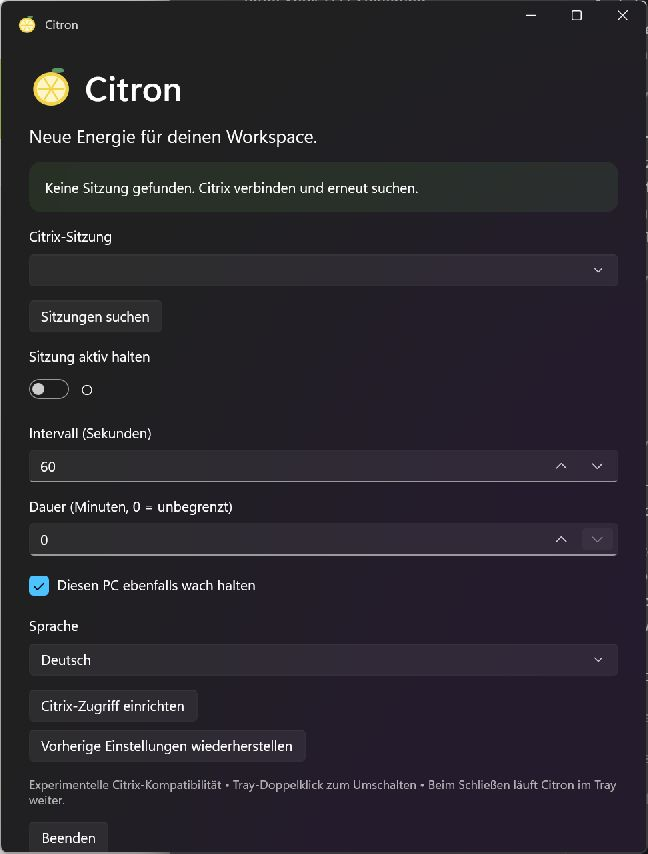
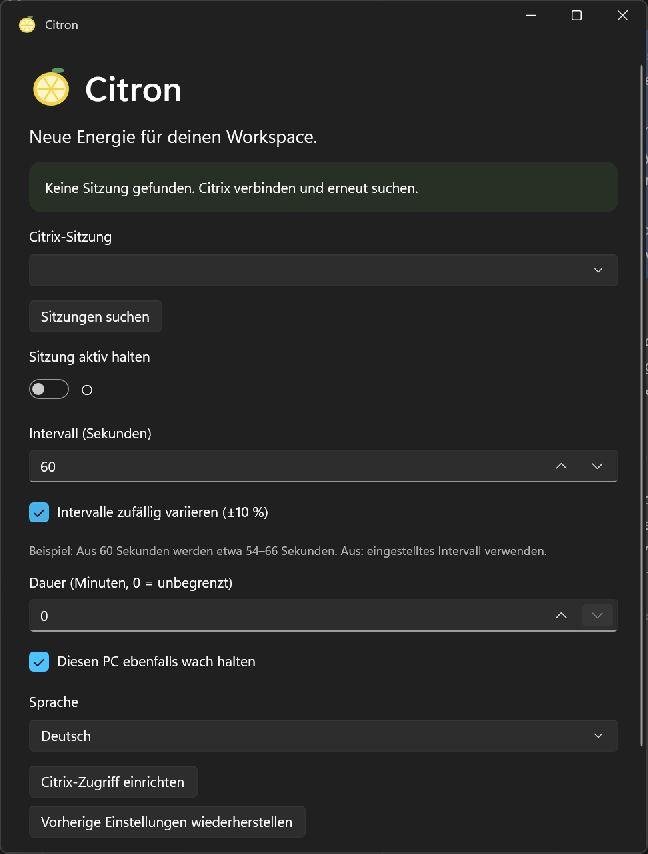
Add optional randomized intervals with persisted multilingual control

diff --git a/src/Citron.App/Program.cs b/src/Citron.App/Program.cs
@@ -29,14 +29,6 @@ internal static class Program
         Directory.CreateDirectory(path); File.AppendAllText(Path.Combine(path, "startup.log"), DateTime.Now + " " + message + Environment.NewLine); } catch { }
     }
 }
-internal sealed class Preferences
-{
-    public string Language { get; set; } = Strings.Language;
-    public int Interval { get; set; } = 60;
-    public int Duration { get; set; } = 0;
-    public bool KeepAwake { get; set; }
-    public bool SetupPrompted { get; set; }
-}
 public sealed partial class CitronApp : Application
 {
     public CitronApp() { UnhandledException += (_, e) => Program.Log(e.Exception.ToString()); InitializeComponent(); }
@@ -46,7 +38,7 @@ public sealed partial class CitronApp : Application
     ComboBox sessions = null!;
     ToggleSwitch enabled = null!;
     NumberBox interval = null!, duration = null!;
-    CheckBox awake = null!;
+    CheckBox awake = null!, randomizeInterval = null!;
     NativeTray tray = null!;
     DispatcherTimer timer = null!;
     Preferences prefs = new();
@@ -124,8 +116,14 @@ public sealed partial class CitronApp : Application
         root.Children.Add(enabled);
         interval = new NumberBox { Header = Strings.T("interval"), Minimum = 15, Maximum = 3600, Value = Math.Clamp(prefs.Interval, 15, 3600), SpinButtonPlacementMode = NumberBoxSpinButtonPlacementMode.Inline };
         duration = new NumberBox { Header = Strings.T("duration"), Minimum = 0, Maximum = 1440, Value = Math.Clamp(prefs.Duration, 0, 1440), SpinButtonPlacementMode = NumberBoxSpinButtonPlacementMode.Inline };
-        interval.ValueChanged += (_, _) => Save(); duration.ValueChanged += (_, _) => Save();
-        root.Children.Add(interval); root.Children.Add(duration);
+        interval.ValueChanged += (_, _) => { Save(); Reschedule(); }; duration.ValueChanged += (_, _) => Save();
+        root.Children.Add(interval);
+        randomizeInterval = new CheckBox { Content = Strings.T("randomize"), IsChecked = prefs.RandomizeInterval };
+        randomizeInterval.Checked += (_, _) => { Save(); Reschedule(); };
+        randomizeInterval.Unchecked += (_, _) => { Save(); Reschedule(); };
+        root.Children.Add(randomizeInterval);
+        root.Children.Add(new TextBlock { Text = Strings.T("randomizeHint"), TextWrapping = TextWrapping.Wrap, Opacity = .65, FontSize = 12 });
+        root.Children.Add(duration);
         awake = new CheckBox { Content = Strings.T("sleep"), IsChecked = prefs.KeepAwake };
         awake.Checked += (_, _) => Save(); awake.Unchecked += (_, _) => { Save(); SetThreadExecutionState(0x80000000); }; root.Children.Add(awake);
         var language = new ComboBox { Header = Strings.T("language"), HorizontalAlignment = HorizontalAlignment.Stretch };
@@ -165,7 +163,12 @@ public sealed partial class CitronApp : Application
         if (double.IsFinite(interval.Value)) prefs.Interval = (int)Math.Clamp(interval.Value, 15, 3600);
         if (double.IsFinite(duration.Value)) prefs.Duration = (int)Math.Clamp(duration.Value, 0, 1440);
         prefs.KeepAwake = awake?.IsChecked == true;
+        prefs.RandomizeInterval = randomizeInterval?.IsChecked == true;
         try { Directory.CreateDirectory(Path.GetDirectoryName(PrefPath)!); File.WriteAllText(PrefPath, JsonSerializer.Serialize(prefs, JsonContext.Default.Preferences)); } catch (Exception ex) { status.Text = ex.Message; }
+    }
+    void Reschedule()
+    {
+        if (running && !busy) next = DateTimeOffset.UtcNow.Add(ActivityTiming.NextDelay(prefs.Interval, prefs.RandomizeInterval));
     }
     string Worker => Path.Combine(AppContext.BaseDirectory, "workers", architecture, "Citron.Worker.exe");
     async Task<JsonElement> Run(string command, string? session = null)
@@ -240,9 +243,10 @@ public sealed partial class CitronApp : Application
         busy = true;
         try
         {
+            var pulseStarted = DateTimeOffset.UtcNow;
             await Run("pulse", target);
             if (running) status.Text = Strings.T("active") + "\n" + DateTime.Now.ToString("T");
-            next = DateTimeOffset.UtcNow.AddSeconds(prefs.Interval);
+            next = pulseStarted.Add(ActivityTiming.NextDelay(prefs.Interval, prefs.RandomizeInterval));
         }
         catch (Exception ex) { enabled.IsOn = false; status.Text = Strings.T("error") + "\n" + ex.Message; }
         finally { busy = false; }

diff --git a/tests/Citron.Timing.Tests/Program.cs b/tests/Citron.Timing.Tests/Program.cs
@@ -1,0 +1,29 @@
+using Citron;
+using System.Text.Json;
+
+void Check(bool condition, string message) { if (!condition) throw new Exception(message); }
+
+Check(ActivityTiming.NextDelay(60, false, new RejectRandom()).TotalSeconds == 60, "Fixed mode must not consume random samples.");
+foreach (int baseline in new[] { 15, 60, 3600 })
+{
+    var rng = new Random(42);
+    var samples = Enumerable.Range(0, 10000).Select(_ => ActivityTiming.NextDelay(baseline, true, rng).TotalSeconds).ToArray();
+    Check(samples.All(s => s >= baseline * .9 - .000001 && s <= baseline * 1.1 + .000001), "A randomized delay escaped its bounds.");
+    Check(samples.Any(s => s < baseline) && samples.Any(s => s > baseline), "Randomized delays must vary in both directions.");
+    Check(samples.Distinct().Count() > 9000, "New delays must be drawn for successive attempts.");
+    Check(Math.Abs(samples.Average() - baseline) < baseline * .002, "The sampled mean must remain close to the configured interval.");
+}
+Check(ActivityTiming.NextDelay(60, true, new FixedRandom(0)).TotalSeconds == 54, "The shortest 60-second delay must be 54 seconds.");
+Check(Math.Abs(ActivityTiming.NextDelay(60, true, new FixedRandom(.999999)).TotalSeconds - 66) < .0001, "The longest delay must approach 66 seconds.");
+Check(ActivityTiming.NextDelay(-1, false).TotalSeconds == 15 && ActivityTiming.NextDelay(int.MaxValue, false).TotalSeconds == 3600, "Invalid saved intervals must be bounded.");
+var oldSettings = JsonSerializer.Deserialize("{\"Interval\":60}", JsonContext.Default.Preferences)!;
+Check(!oldSettings.RandomizeInterval, "Existing settings must default to fixed timing.");
+foreach (bool enabled in new[] { false, true })
+{
+    var encoded = JsonSerializer.Serialize(new Preferences { RandomizeInterval = enabled }, JsonContext.Default.Preferences);
+    Check(JsonSerializer.Deserialize(encoded, JsonContext.Default.Preferences)!.RandomizeInterval == enabled, "The checkbox preference must survive a JSON round trip.");
+}
+Console.WriteLine("PASS fixed timing, jitter bounds/variation/mean, invalid settings, and preference compatibility/persistence.");
+
+sealed class RejectRandom : Random { public override double NextDouble() => throw new Exception("RNG used in fixed mode."); }
+sealed class FixedRandom(double sample) : Random { public override double NextDouble() => sample; }

diff --git a/src/Citron.App/Strings.cs b/src/Citron.App/Strings.cs
@@ -14,6 +14,8 @@ internal static class Strings
         ["refresh"] = ["Find sessions", "Sitzungen suchen", "Buscar sesiones", "Rechercher les sessions", "Buscar sessões"],
         ["enable"] = ["Keep session active", "Sitzung aktiv halten", "Mantener la sesión activa", "Maintenir la session active", "Manter a sessão ativa"],
         ["interval"] = ["Interval (seconds)", "Intervall (Sekunden)", "Intervalo (segundos)", "Intervalle (secondes)", "Intervalo (segundos)"],
+        ["randomize"] = ["Vary intervals randomly (±10%)", "Intervalle zufällig variieren (±10 %)", "Variar los intervalos al azar (±10 %)", "Varier les intervalles aléatoirement (±10 %)", "Variar os intervalos aleatoriamente (±10%)"],
+        ["randomizeHint"] = ["For example: 60 seconds becomes approximately 54–66 seconds. Off: use the configured interval.", "Beispiel: Aus 60 Sekunden werden etwa 54–66 Sekunden. Aus: eingestelltes Intervall verwenden.", "Ejemplo: 60 segundos se convierten en unos 54–66 segundos. Desactivado: usar el intervalo configurado.", "Exemple : 60 secondes deviennent environ 54–66 secondes. Désactivé : utiliser l’intervalle configuré.", "Exemplo: 60 segundos tornam-se cerca de 54–66 segundos. Desativado: usar o intervalo definido."],
         ["duration"] = ["Duration (minutes, 0 = unlimited)", "Dauer (Minuten, 0 = unbegrenzt)", "Duración (minutos, 0 = ilimitada)", "Durée (minutes, 0 = illimitée)", "Duração (minutos, 0 = ilimitada)"],
         ["language"] = ["Language", "Sprache", "Idioma", "Langue", "Idioma"],
         ["sleep"] = ["Also keep this PC awake", "Diesen PC ebenfalls wach halten", "Mantener también este PC activo", "Garder aussi ce PC éveillé", "Manter também este PC ativo"],

diff --git a/src/Citron.App/ActivityTiming.cs b/src/Citron.App/ActivityTiming.cs
@@ -1,0 +1,12 @@
+using System;
+
+namespace Citron;
+internal static class ActivityTiming
+{
+    internal static TimeSpan NextDelay(int intervalSeconds, bool randomize, Random? random = null)
+    {
+        double seconds = Math.Clamp(intervalSeconds, 15, 3600);
+        if (randomize) seconds *= 0.9 + (random ?? Random.Shared).NextDouble() * 0.2;
+        return TimeSpan.FromSeconds(seconds);
+    }
+}

diff --git a/src/Citron.App/Preferences.cs b/src/Citron.App/Preferences.cs
@@ -1,0 +1,10 @@
+namespace Citron;
+internal sealed class Preferences
+{
+    public string Language { get; set; } = Strings.Language;
+    public int Interval { get; set; } = 60;
+    public int Duration { get; set; }
+    public bool KeepAwake { get; set; }
+    public bool SetupPrompted { get; set; }
+    public bool RandomizeInterval { get; set; }
+}

diff --git a/README.md b/README.md
@@ -10,7 +10,7 @@ A compact, multilingual Windows tray companion for Citrix sessions.
 
 **WinUI 3 · One EXE · 5 languages · Windows x64 · Experimental preview**
 
-[Download v0.2.0](https://github.com/Xploder/Citron/releases/tag/v0.2.0) · [Build from source](#-build-it-yourself) · [Validation](docs/VALIDATION.md)
+[Download v0.2.1](https://github.com/Xploder/Citron/releases/tag/v0.2.1) · [Build from source](#-build-it-yourself) · [Validation](docs/VALIDATION.md)
 
 <img src="docs/screenshot.png" width="420" alt="Citron settings with session selection, activity controls, timing, and language options" />
 
@@ -40,7 +40,7 @@ Citron is a native Windows utility designed to send periodic input directly to a
 
 ## 🚀 Getting started
 
-1. Download **Citron.exe** from [Releases](https://github.com/Xploder/Citron/releases/tag/v0.2.0).
+1. Download **Citron.exe** from [Releases](https://github.com/Xploder/Citron/releases/tag/v0.2.1).
 2. Run it from a folder you can keep permanently. No separate .NET 10 or Windows App Runtime installation is needed.
 3. On first launch, review **Set up Citrix access**. Approve the Windows UAC prompt if setup is required.
 4. Connect a session using the native Citrix Workspace client, then select **Find sessions**.
@@ -58,6 +58,7 @@ Citron always starts paused. Closing the settings window keeps it in the tray; *
 ## ⚙ What the settings do
 
 - **Interval:** time between attempts, from 15 to 3,600 seconds.
+- **Vary intervals randomly (±10%):** optional and off by default. Each next gap gets a fresh random value; 60 seconds becomes approximately 54–66 seconds. The configured base interval stays unchanged. Turning this off uses the configured interval without intentional variation. Windows scheduling and the one-second polling timer can still introduce small timing delays. This option makes no claim about monitoring-tool classification.
 - **Duration:** automatically pause after the selected number of minutes; 0 means unlimited.
 - **Also keep this PC awake:** prevents automatic local system sleep while enabled. It does not keep the display on, prevent Windows locking, or create local keyboard/mouse activity.
 - **Language:** follows the Windows display language initially, falls back to English, and saves your manual selection immediately.
@@ -91,6 +92,7 @@ Install the **.NET 10 SDK** on Windows x64. Build tools and .NET Framework refer
 ```powershell
 .\build.ps1
 .\verify.ps1
+dotnet run --project .\tests\Citron.Timing.Tests -c Release
 ```
 
 The portable output is `dist\portable\Citron.exe`. The build verifies that this directory contains exactly one file. Both x86 and x64 helpers are embedded automatically. Use a fresh output directory when switching packaging formats.

diff --git a/docs/STATUS.md b/docs/STATUS.md
@@ -1,10 +1,11 @@
-# Development status — v0.2.0
+# Development status — v0.2.1
 
 ## Implemented
 
 - Native WinUI 3 / .NET 10 UI, custom title bar, app icon, native Windows tray, double-click activity toggle.
 - English, German, Spanish, French, Portuguese; initial Windows language and persisted manual selection.
 - Separate, architecture-matched x86/x64 .NET Framework 4.7.2 ICA/CCM helpers, using Windows' included runtime.
+- Optional randomized intervals: fresh ±10% variation per next attempt, disabled by default, persisted and translated in all five languages.
 - Per-session selection, 12-second helper timeout, interval, duration, local power request, Windows lock pause.
 - Paused startup, single instance with activation of the existing window, Explorer tray recreation handling.
 - Guided registry setup with UAC, previous-value backup and restoration.
@@ -13,6 +14,8 @@
 ## Verified
 
 - Portable output contains one executable of approximately 34 MiB, down from 433 MiB / 1,160 files.
+- The randomized-interval checkbox was visually checked in the packaged EXE; enabled state persisted through quit/relaunch, then was restored to the fixed default.
+- Timing tests pass: fixed mode does not consume RNG; randomized values stay within bounds, vary in both directions, and retain the configured average. Old settings remain fixed and the new preference survives JSON round trips.
 - Both helper PE architectures run and report the expected process architecture.
 - Registry checks pass; a helper with missing setup values refuses session access.
 - Startup of the actual compressed EXE succeeds with bundled icons, XAML resources, and helper execution.

diff --git a/docs/VALIDATION.md b/docs/VALIDATION.md
@@ -10,3 +10,7 @@
 8. Exercise a hung worker: UI stays responsive; timeout pauses operation. Restart Explorer: verify tray recovery.
 
 Do not label minimized-session compatibility as verified until steps 4–5 pass on the exact deployed Citrix version. Setup/restore and live simulation require an interactive environment and are not performed by the build script.
+
+## Optional randomized intervals
+
+Run `dotnet run --project tests/Citron.Timing.Tests -c Release`. It checks fixed mode without RNG use, ±10% boundaries, variation on successive draws, average interval, invalid saved values, old-settings compatibility, and JSON persistence. In the UI, verify that the checkbox is initially off, saves across restarts, and survives language changes. Changing it while active reschedules the next attempt. The first attempt after activation is still immediate. Live delivery timing depends on Windows scheduling and the one-second polling timer. No monitoring-classification claim is made.
